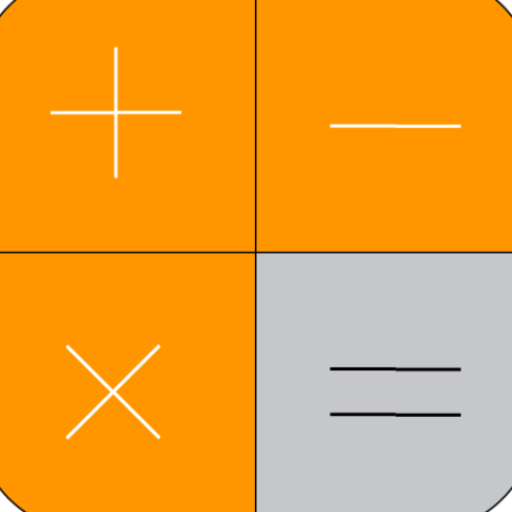
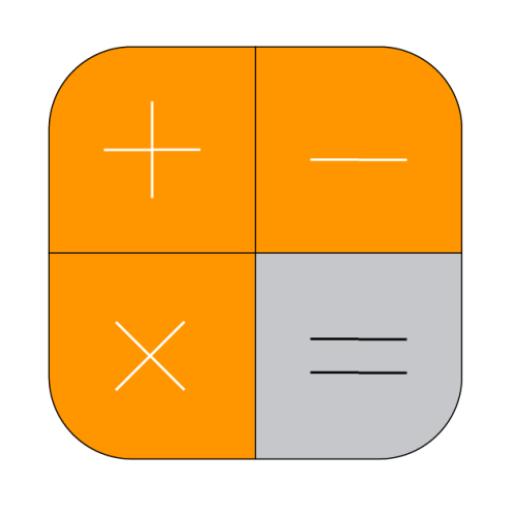
Updated
Splash Screen and icon

diff --git a/Calculator App/app/src/main/java/com/example/mycalculator/SplashScreen.java b/Calculator App/app/src/main/java/com/example/mycalculator/SplashScreen.java
@@ -1,0 +1,26 @@
+package com.example.mycalculator;
+
+import androidx.appcompat.app.AppCompatActivity;
+
+import android.content.Intent;
+import android.os.Bundle;
+import android.os.Handler;
+
+public class SplashScreen extends AppCompatActivity {
+
+    @Override
+    protected void onCreate(Bundle savedInstanceState) {
+        super.onCreate(savedInstanceState);
+        setContentView(R.layout.activity_splash_screen);
+
+        new Handler().postDelayed(new Runnable() {
+            @Override
+            public void run() {
+                Intent i = new Intent(SplashScreen.this,MainActivity.class);
+                startActivity(i);
+
+                finish();
+            }
+        }, 3000);
+    }
+}

diff --git a/Calculator App/app/src/main/java/com/example/mycalculator/MainActivity.java b/Calculator App/app/src/main/java/com/example/mycalculator/MainActivity.java
@@ -21,7 +21,6 @@ public class MainActivity extends AppCompatActivity {
     ArrayList<MaterialButton> btnList = new ArrayList<>();
     MaterialButton btnEqual, btnClear, btnAllClear, btnbracket;
     TextView inputTxt, outputTxt;
-
     int leftBracket = 0, rightBracket = 0;
     String data;
 
